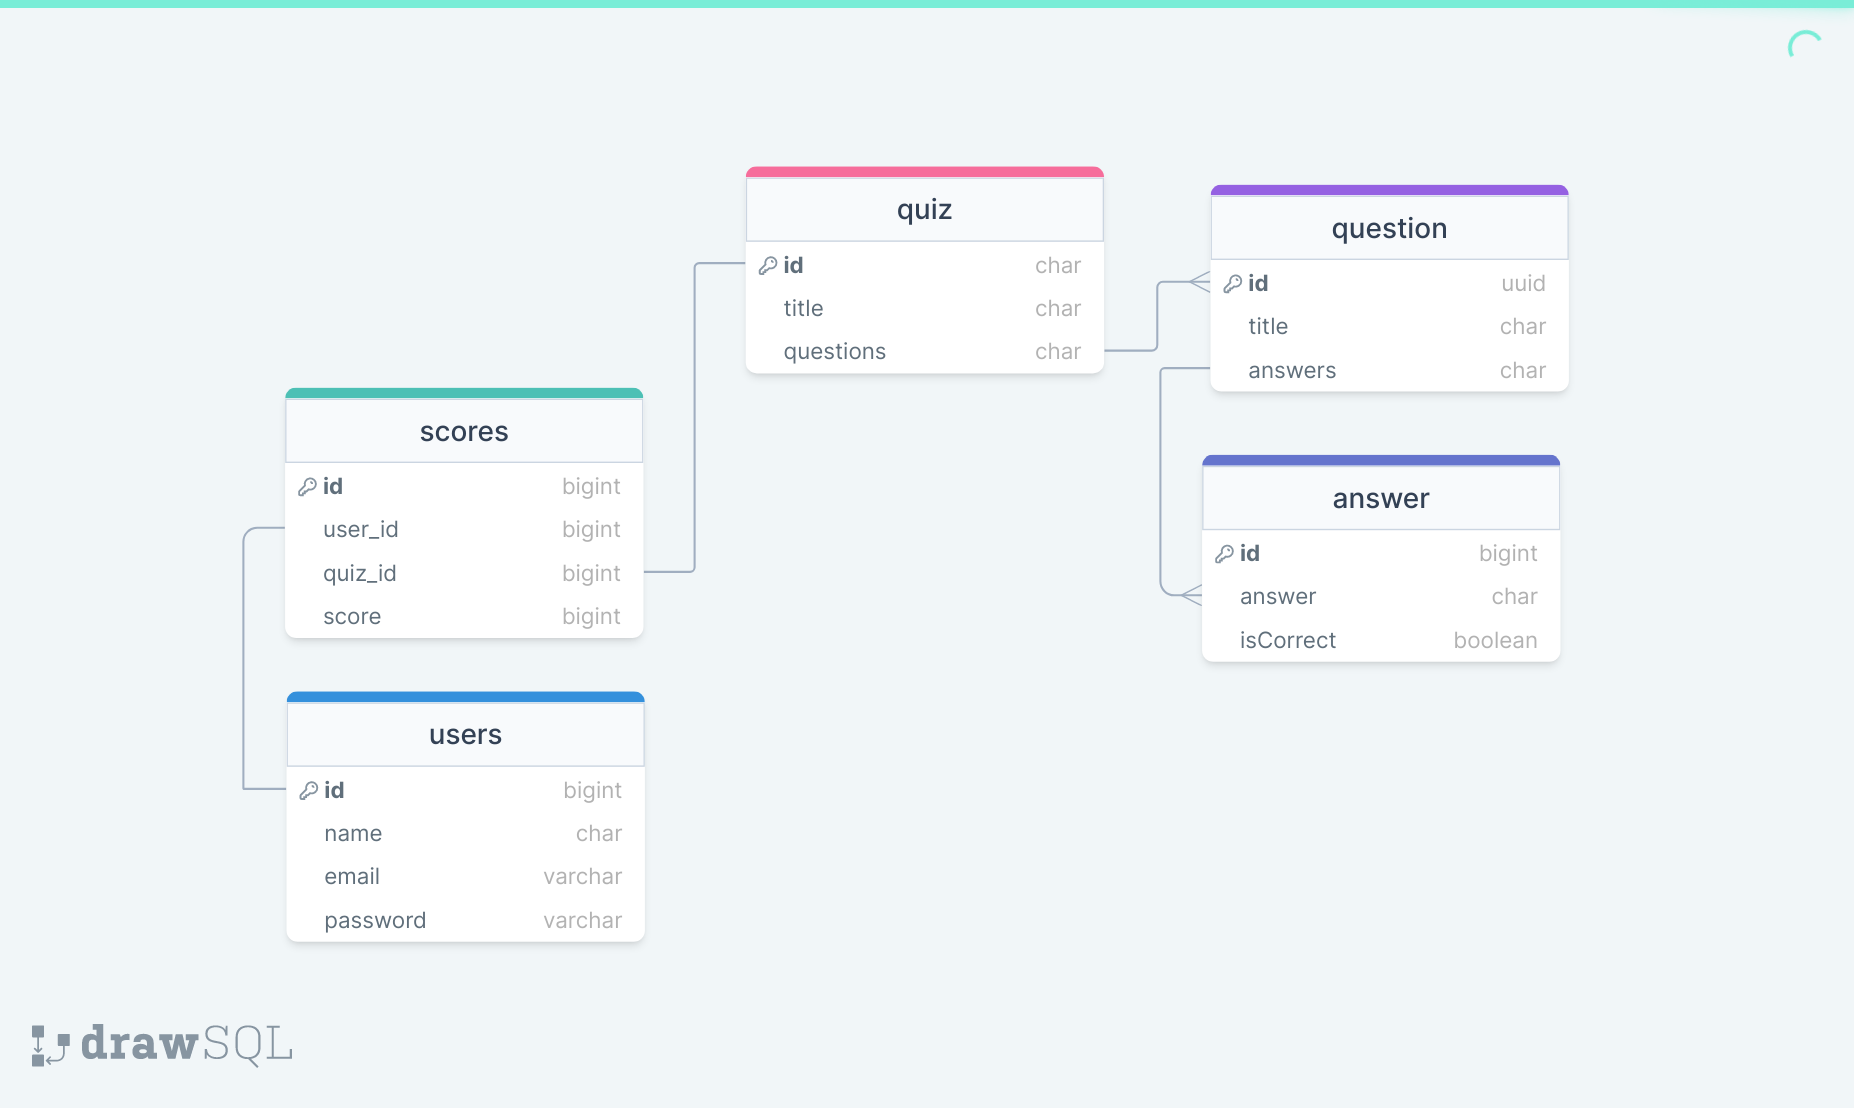
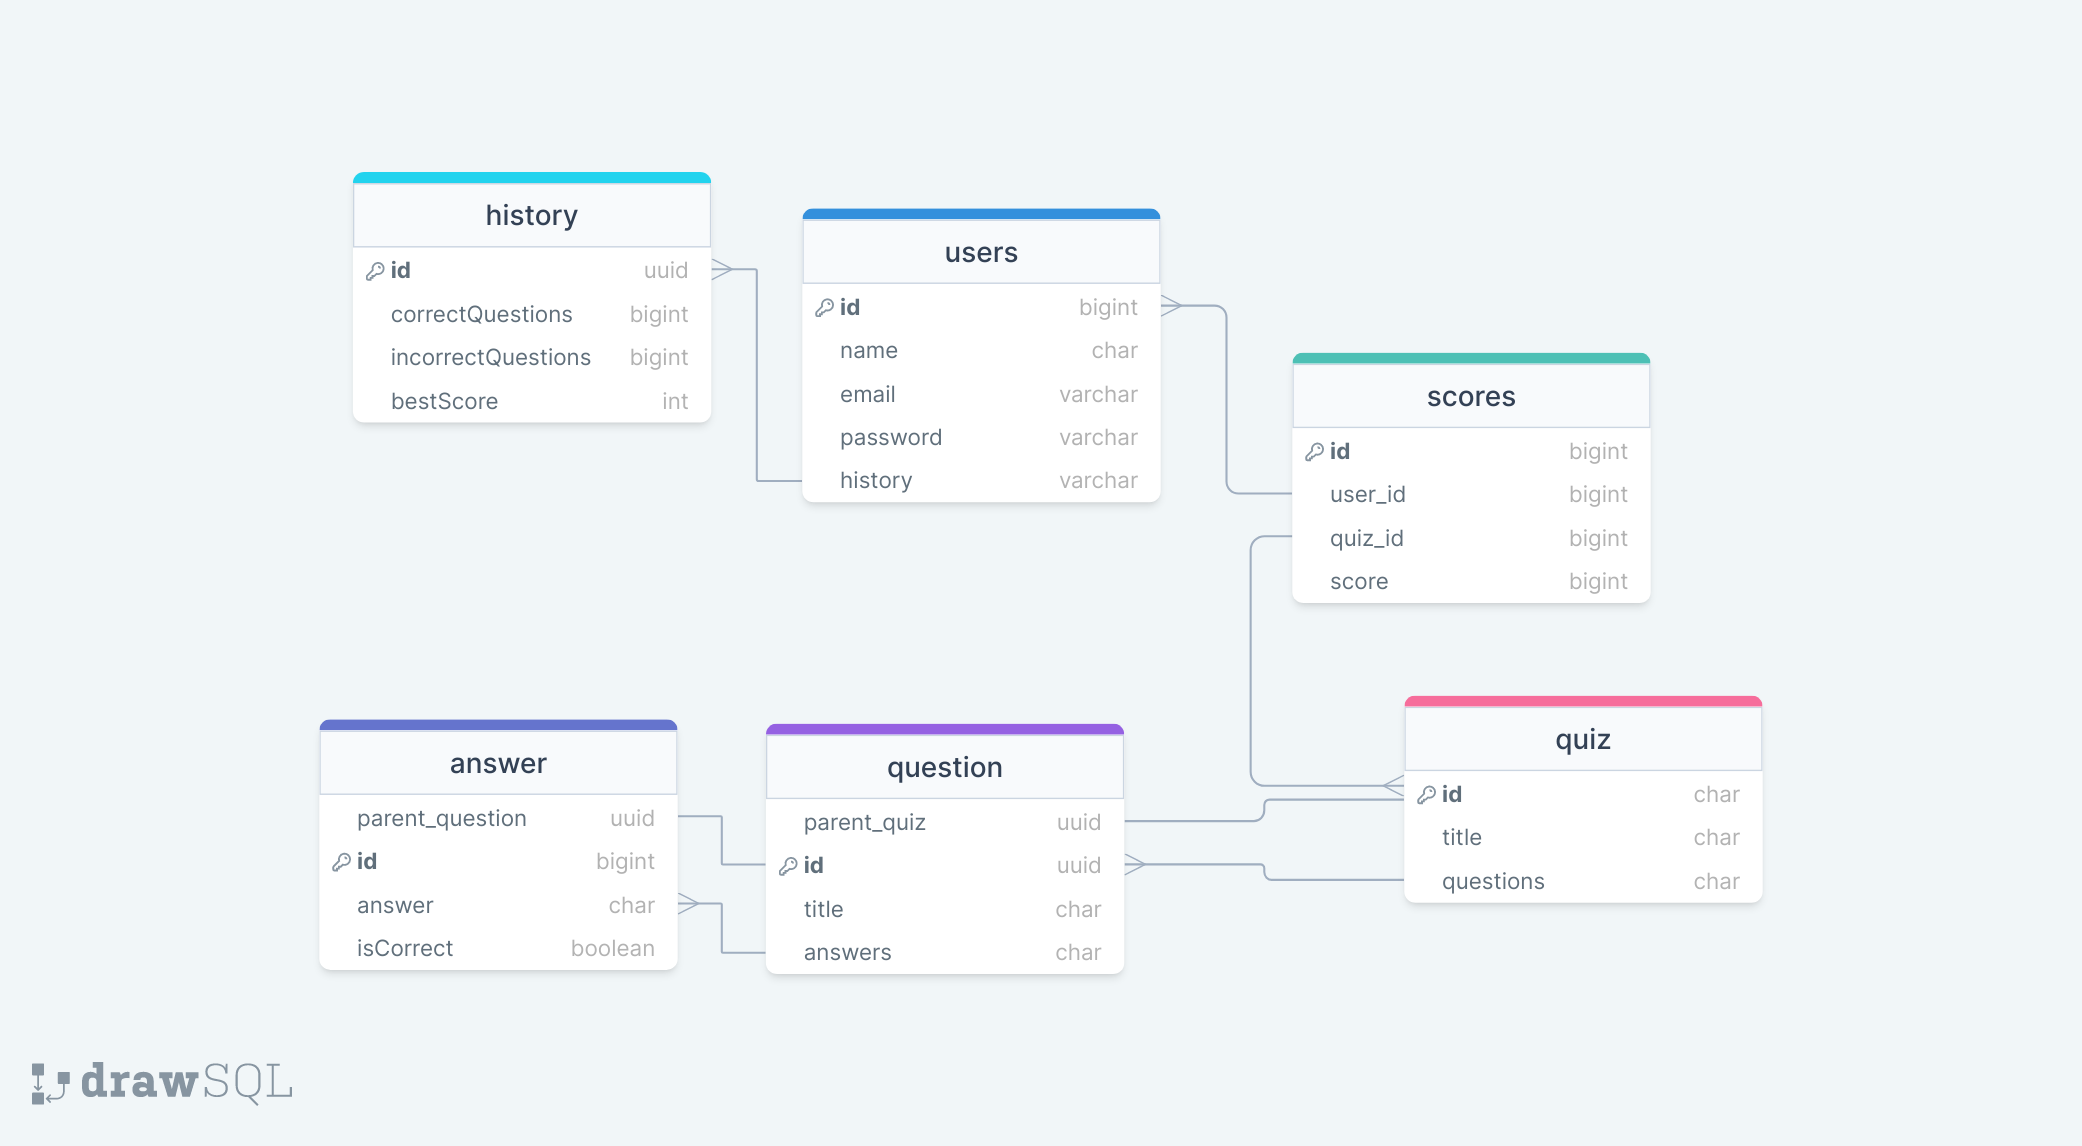
docs: update db structure draqsql

diff --git a/README.md b/README.md
@@ -1,11 +1,12 @@
 # JavaScript Quiz
 
 A fun, educative JavaScript quiz
-Currently working on the backend
+
+Currently working on the backend for auth, quiz creation (questions, answers, scores, user history, content management).
 
 # Database Structure
 
-![db](assets/database-structure.png)
+![](assets/database-structure.png)
 
-illustration link 
-https://storyset.com/illustration/developer-activity/bro
+
+[Illustration Source](https://storyset.com/illustration/developer-activity/bro)
